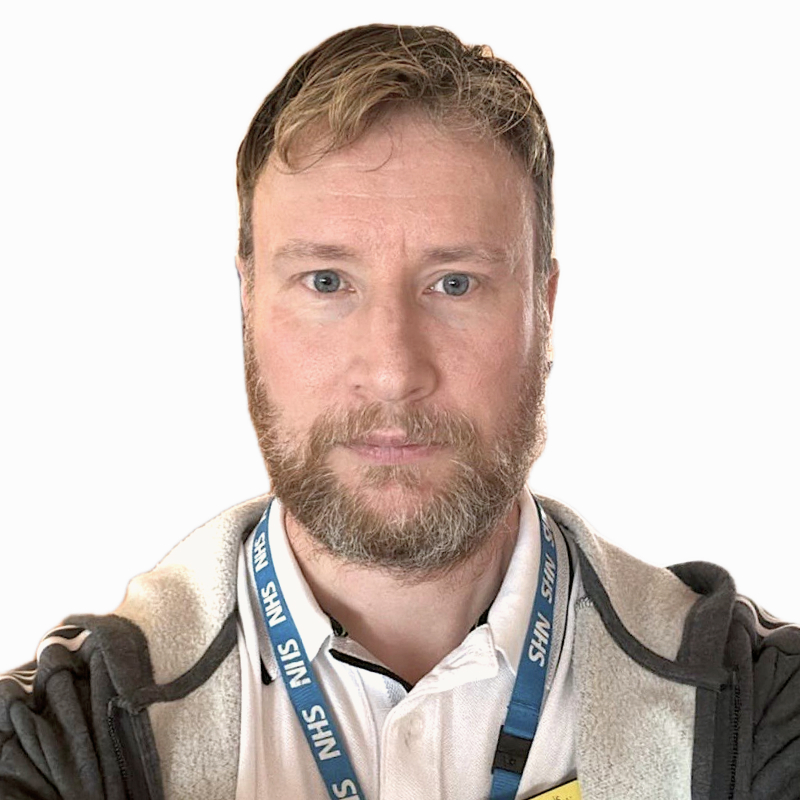
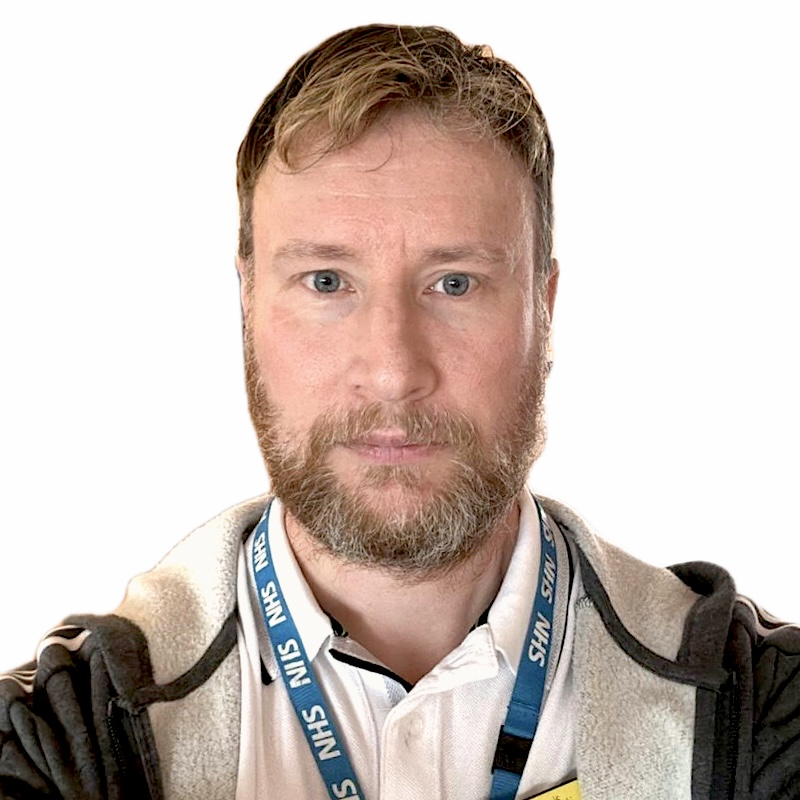
Update gp photo and add to page

diff --git a/app/views/product-page.html b/app/views/product-page.html
@@ -196,12 +196,12 @@
             </div>
 
             <div class="nhsuk-grid-column-one-half nhsuk-u-padding-bottom-6">
-              <img class="nhsuk-image__img ravs-quote-image" src="/assets/images/user.png" alt="Generic user icon">
+              <img class="nhsuk-image__img ravs-quote-image" src="/assets/images/gp.jpg" alt="Photo of GP.">
               <div class="ravs-quote-text nhsuk-body nhsuk-u-font-size-22 nhsuk-u-margin-top-0 nhsuk-u-margin-top-0">
                 <blockquote class="nhsuk-u-padding-0 nhsuk-u-margin-0 nhsuk-u-margin-bottom-1 nhsuk-u-padding-top-2 ravs-u-text-wrap-balance">
                   “Absolutely fantastic system, it sped up our whole process”
                 </blockquote>
-                <div class="nhsuk-body nhsuk-u-font-size-19">– Director, GP Practice</div>
+                <div class="nhsuk-body nhsuk-u-font-size-19">– Director, Abbey Medical Centre</div>
               </div>
             </div>
 
